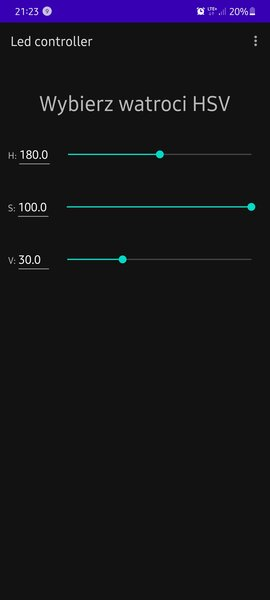
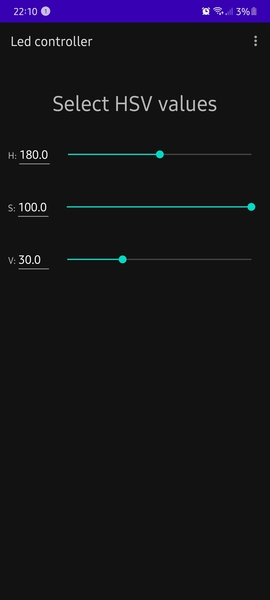
Update images :camera:

Changed region(s): [[0.1481, 0.15, 0.8593, 0.21], [0.7111, 0.0, 0.9481, 0.03], [0.0593, 0.0, 0.2074, 0.03]]

diff --git a/app/src/main/java/pl/filipgrela/ledcontroller/settings/SettingsFragment.java b/app/src/main/java/pl/filipgrela/ledcontroller/settings/SettingsFragment.java
@@ -59,6 +59,8 @@ public class SettingsFragment extends PreferenceFragmentCompat {
             makeToast(getResources().getString(R.string.edit_text_preference_port_summary) + ": " + pref.getInt("Server_port", 6061));
             return false;
         });
+
+        //TODO ręczna zmianę jezyka
     }
 
     @SuppressLint("ShowToast")
